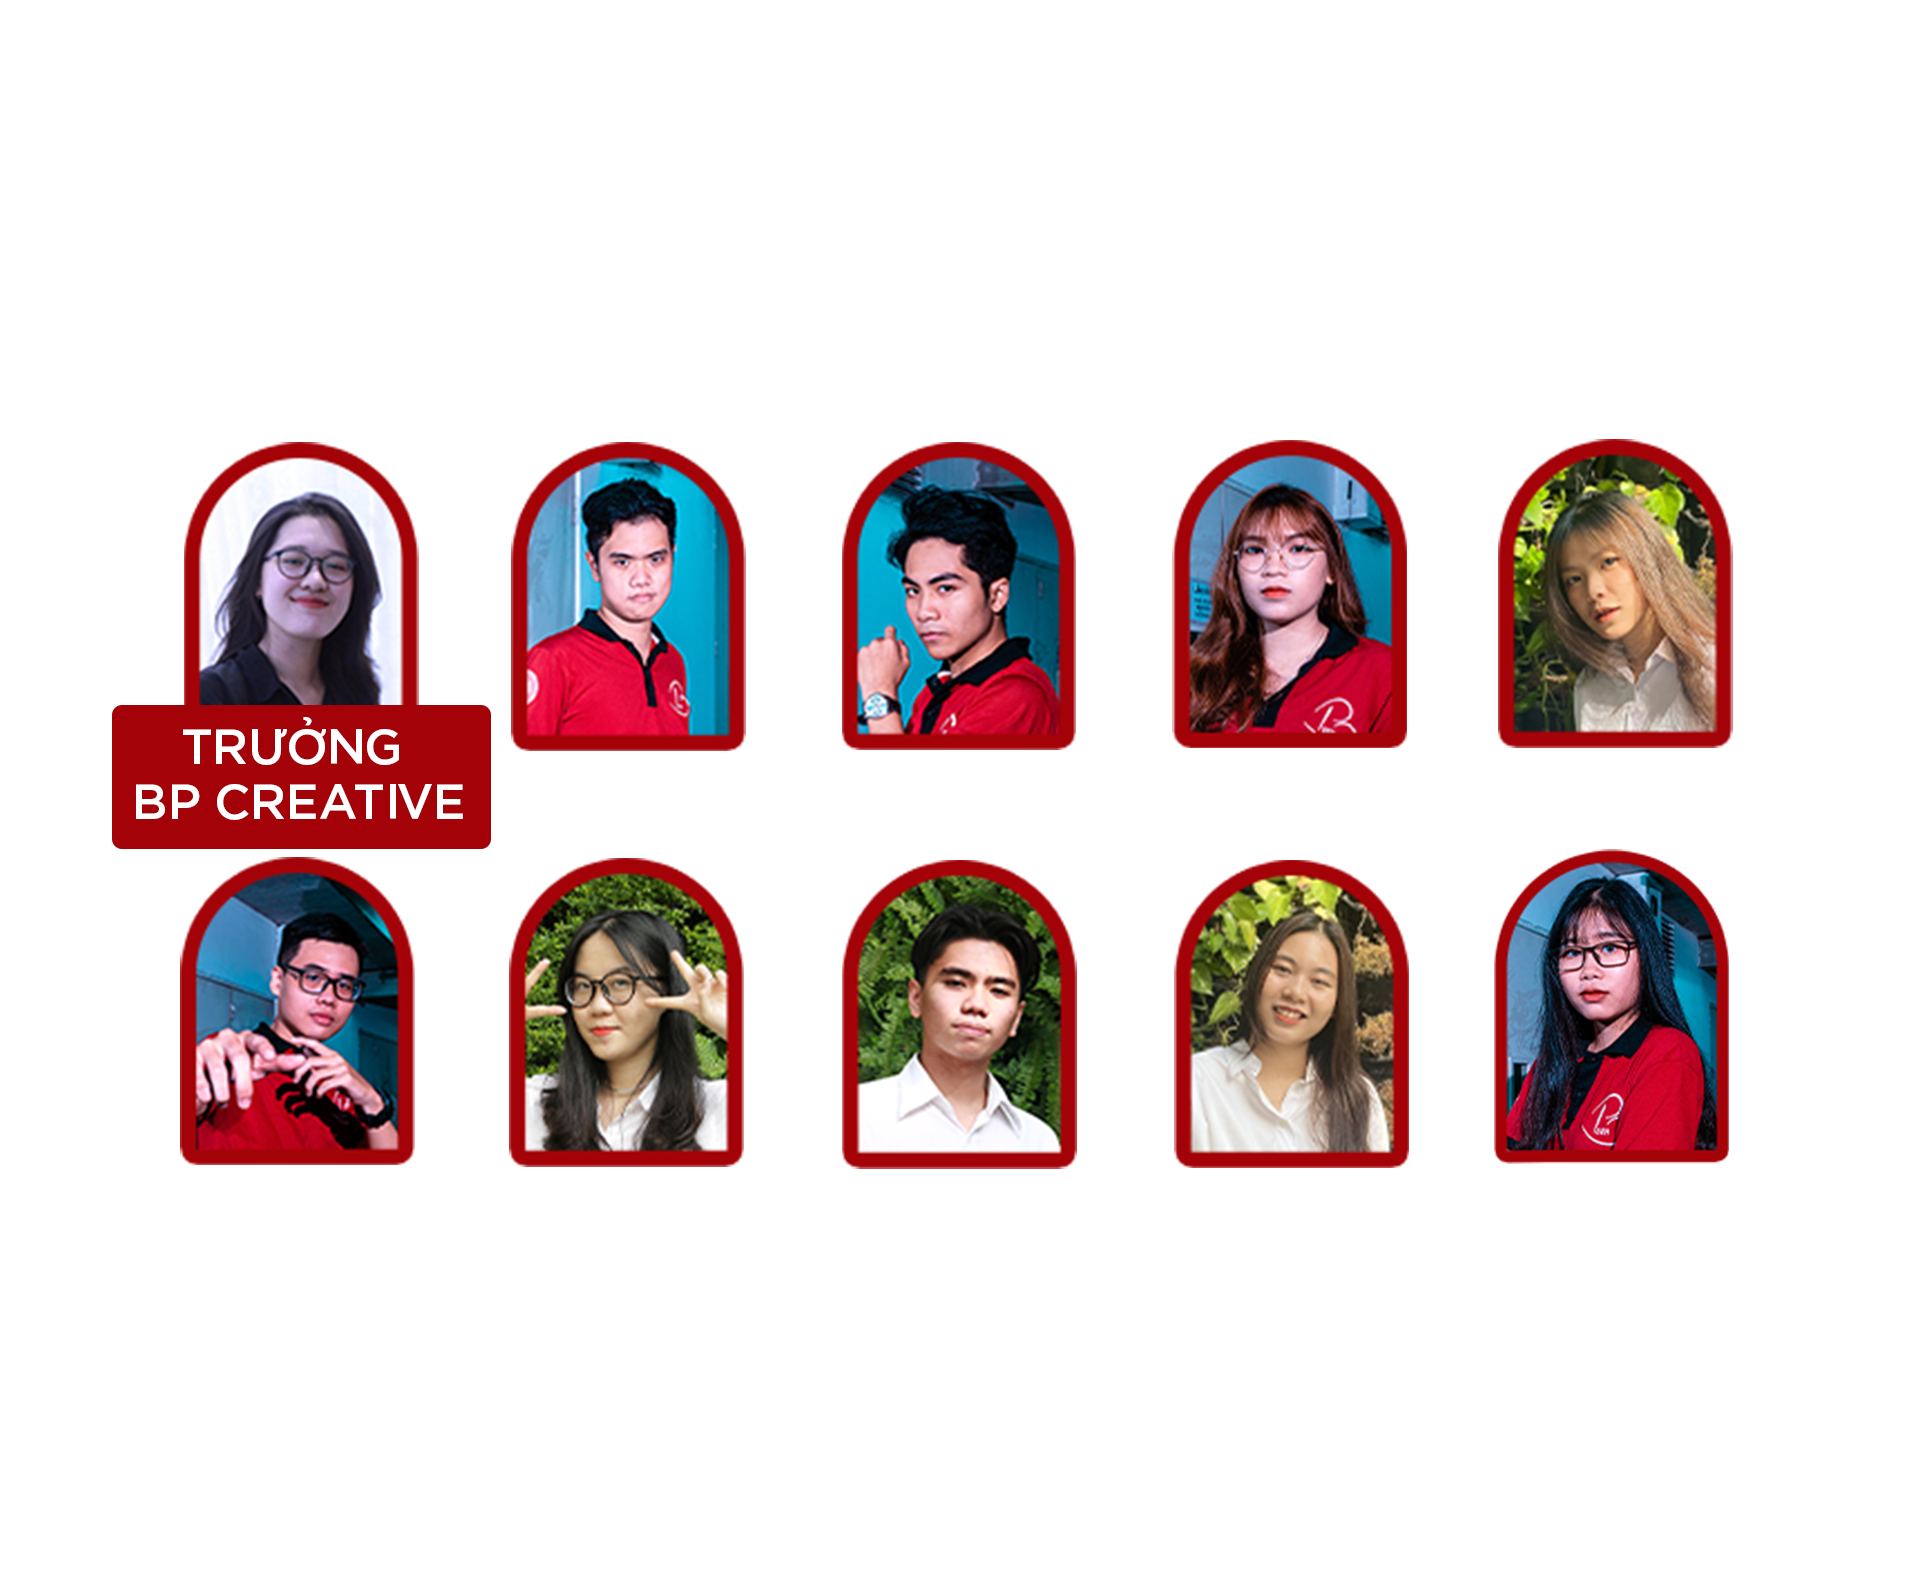
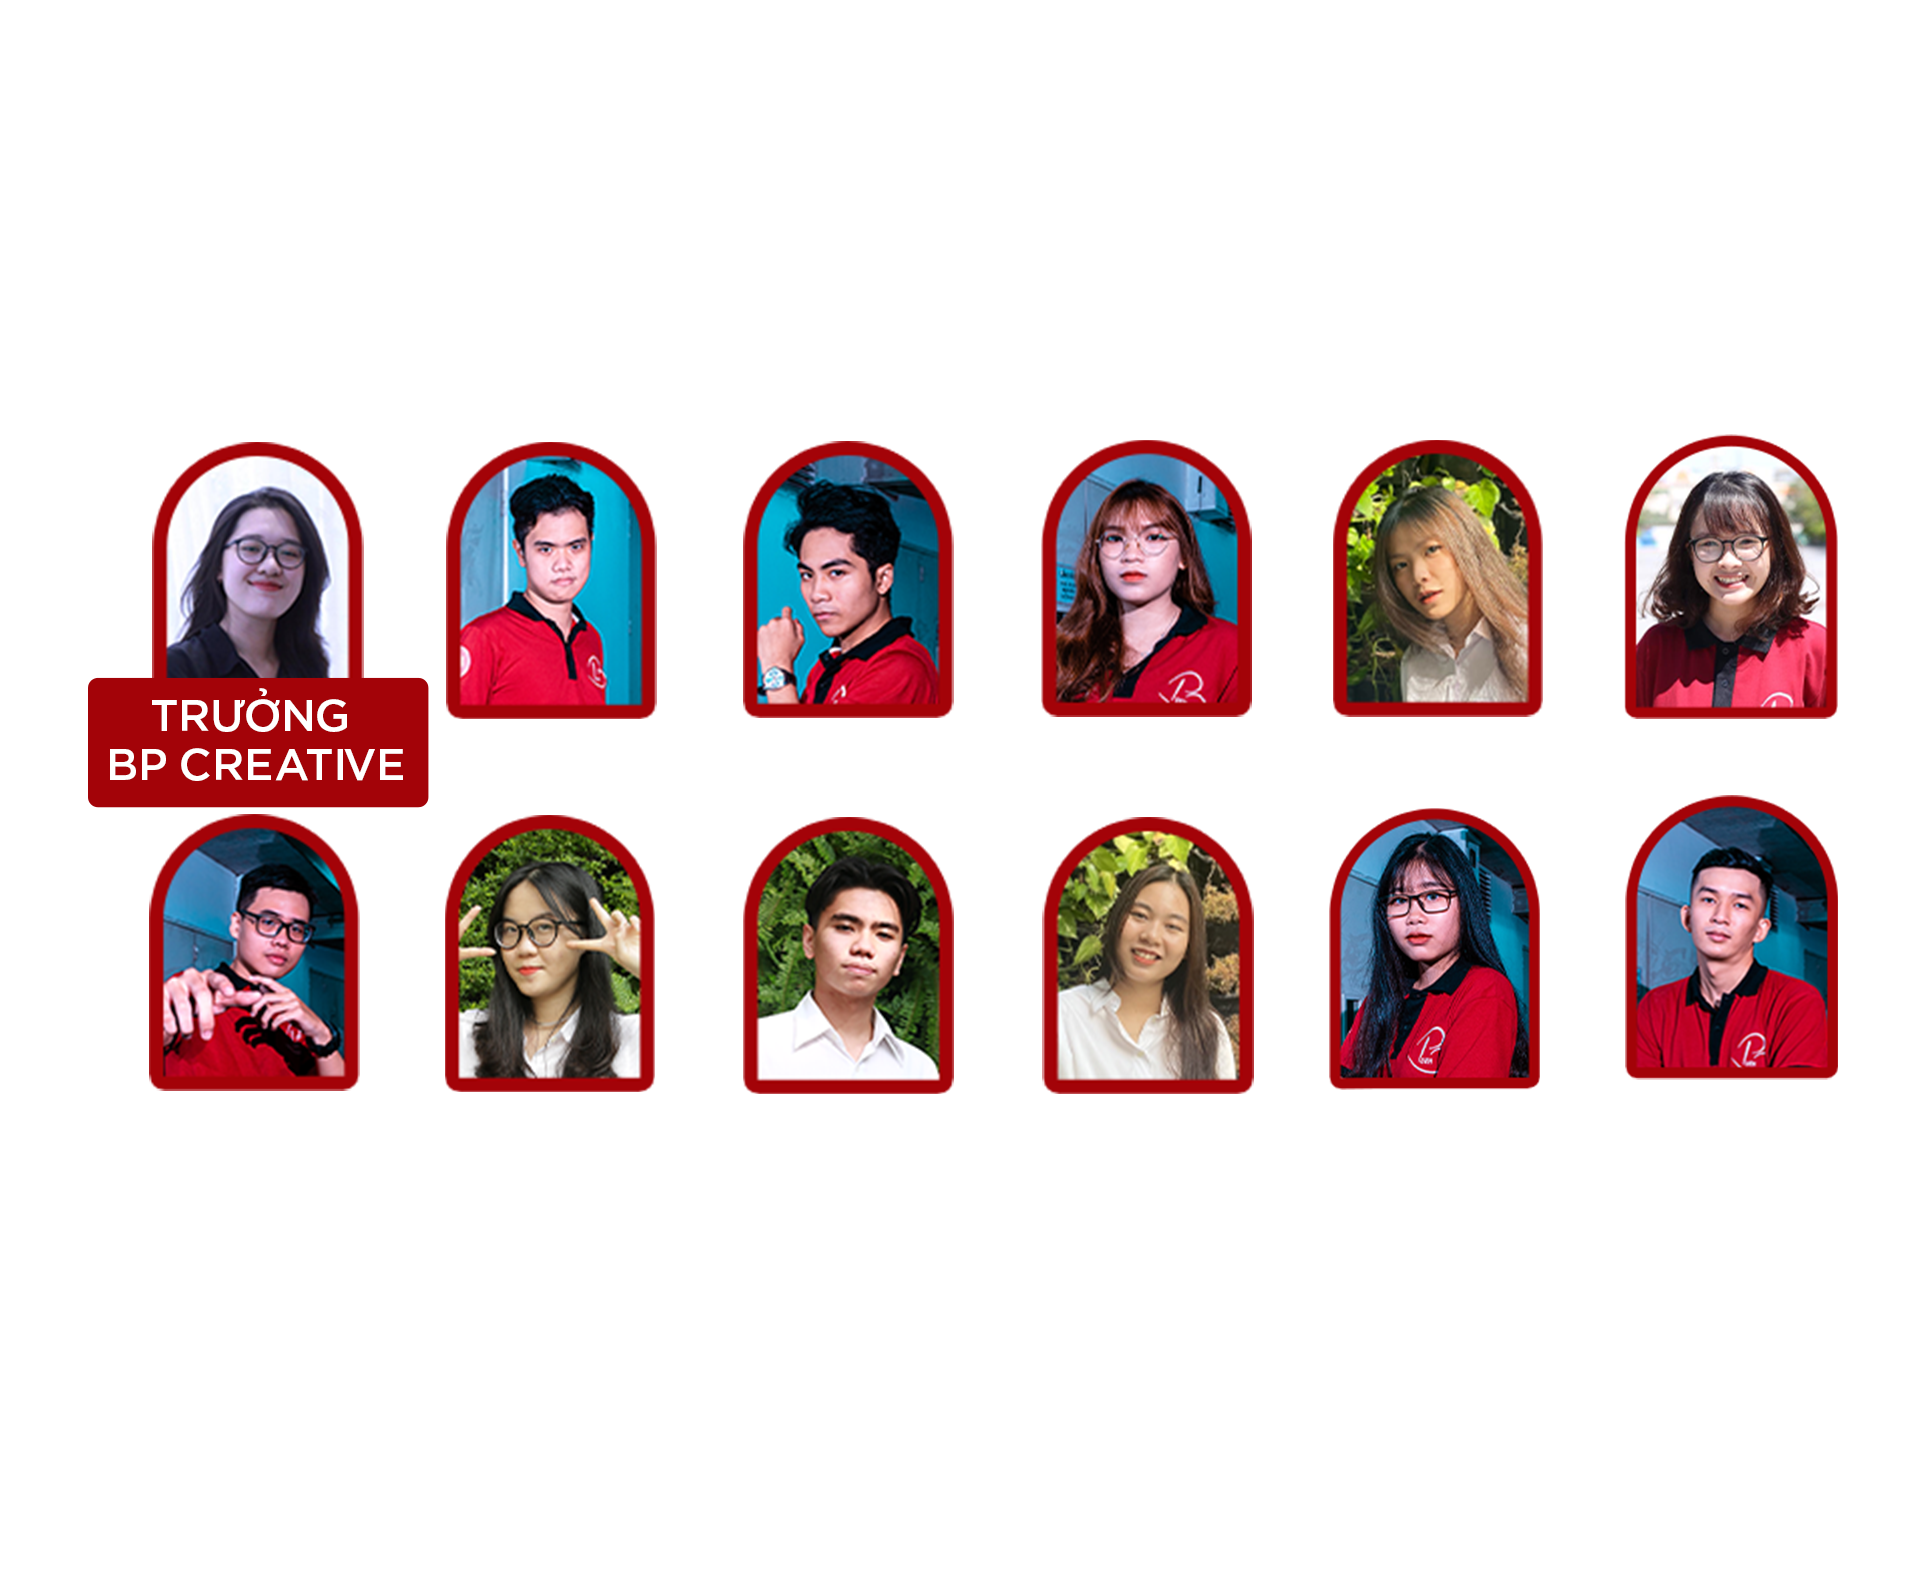
fixmembersImg

diff --git a/components/members.js b/components/members.js
@@ -90,7 +90,7 @@ class Members extends Component {
                 <section id="members">
                     <div className="section">
                         <h1>MEMBERS</h1>
-                        <div dangerouslySetInnerHTML={{ __html: `<img id= "memberimg"src="/chutich2.png" />`}}></div>
+                        <div dangerouslySetInnerHTML={{ __html: `<img id= "memberimg"src="/temsimg/large/chutich.png" />`}}></div>
                         <div id="teamsimg">
                             <div onClick={() => this.showImage(1)} dangerouslySetInnerHTML={{ __html: `<img class= "teamimg"src="/temsimg/CRE.png" />`}}></div>
                             <div onClick={() => this.showImage(2)} dangerouslySetInnerHTML={{ __html: `<img class= "teamimg"src="/temsimg/TT.png" />`}}></div>
